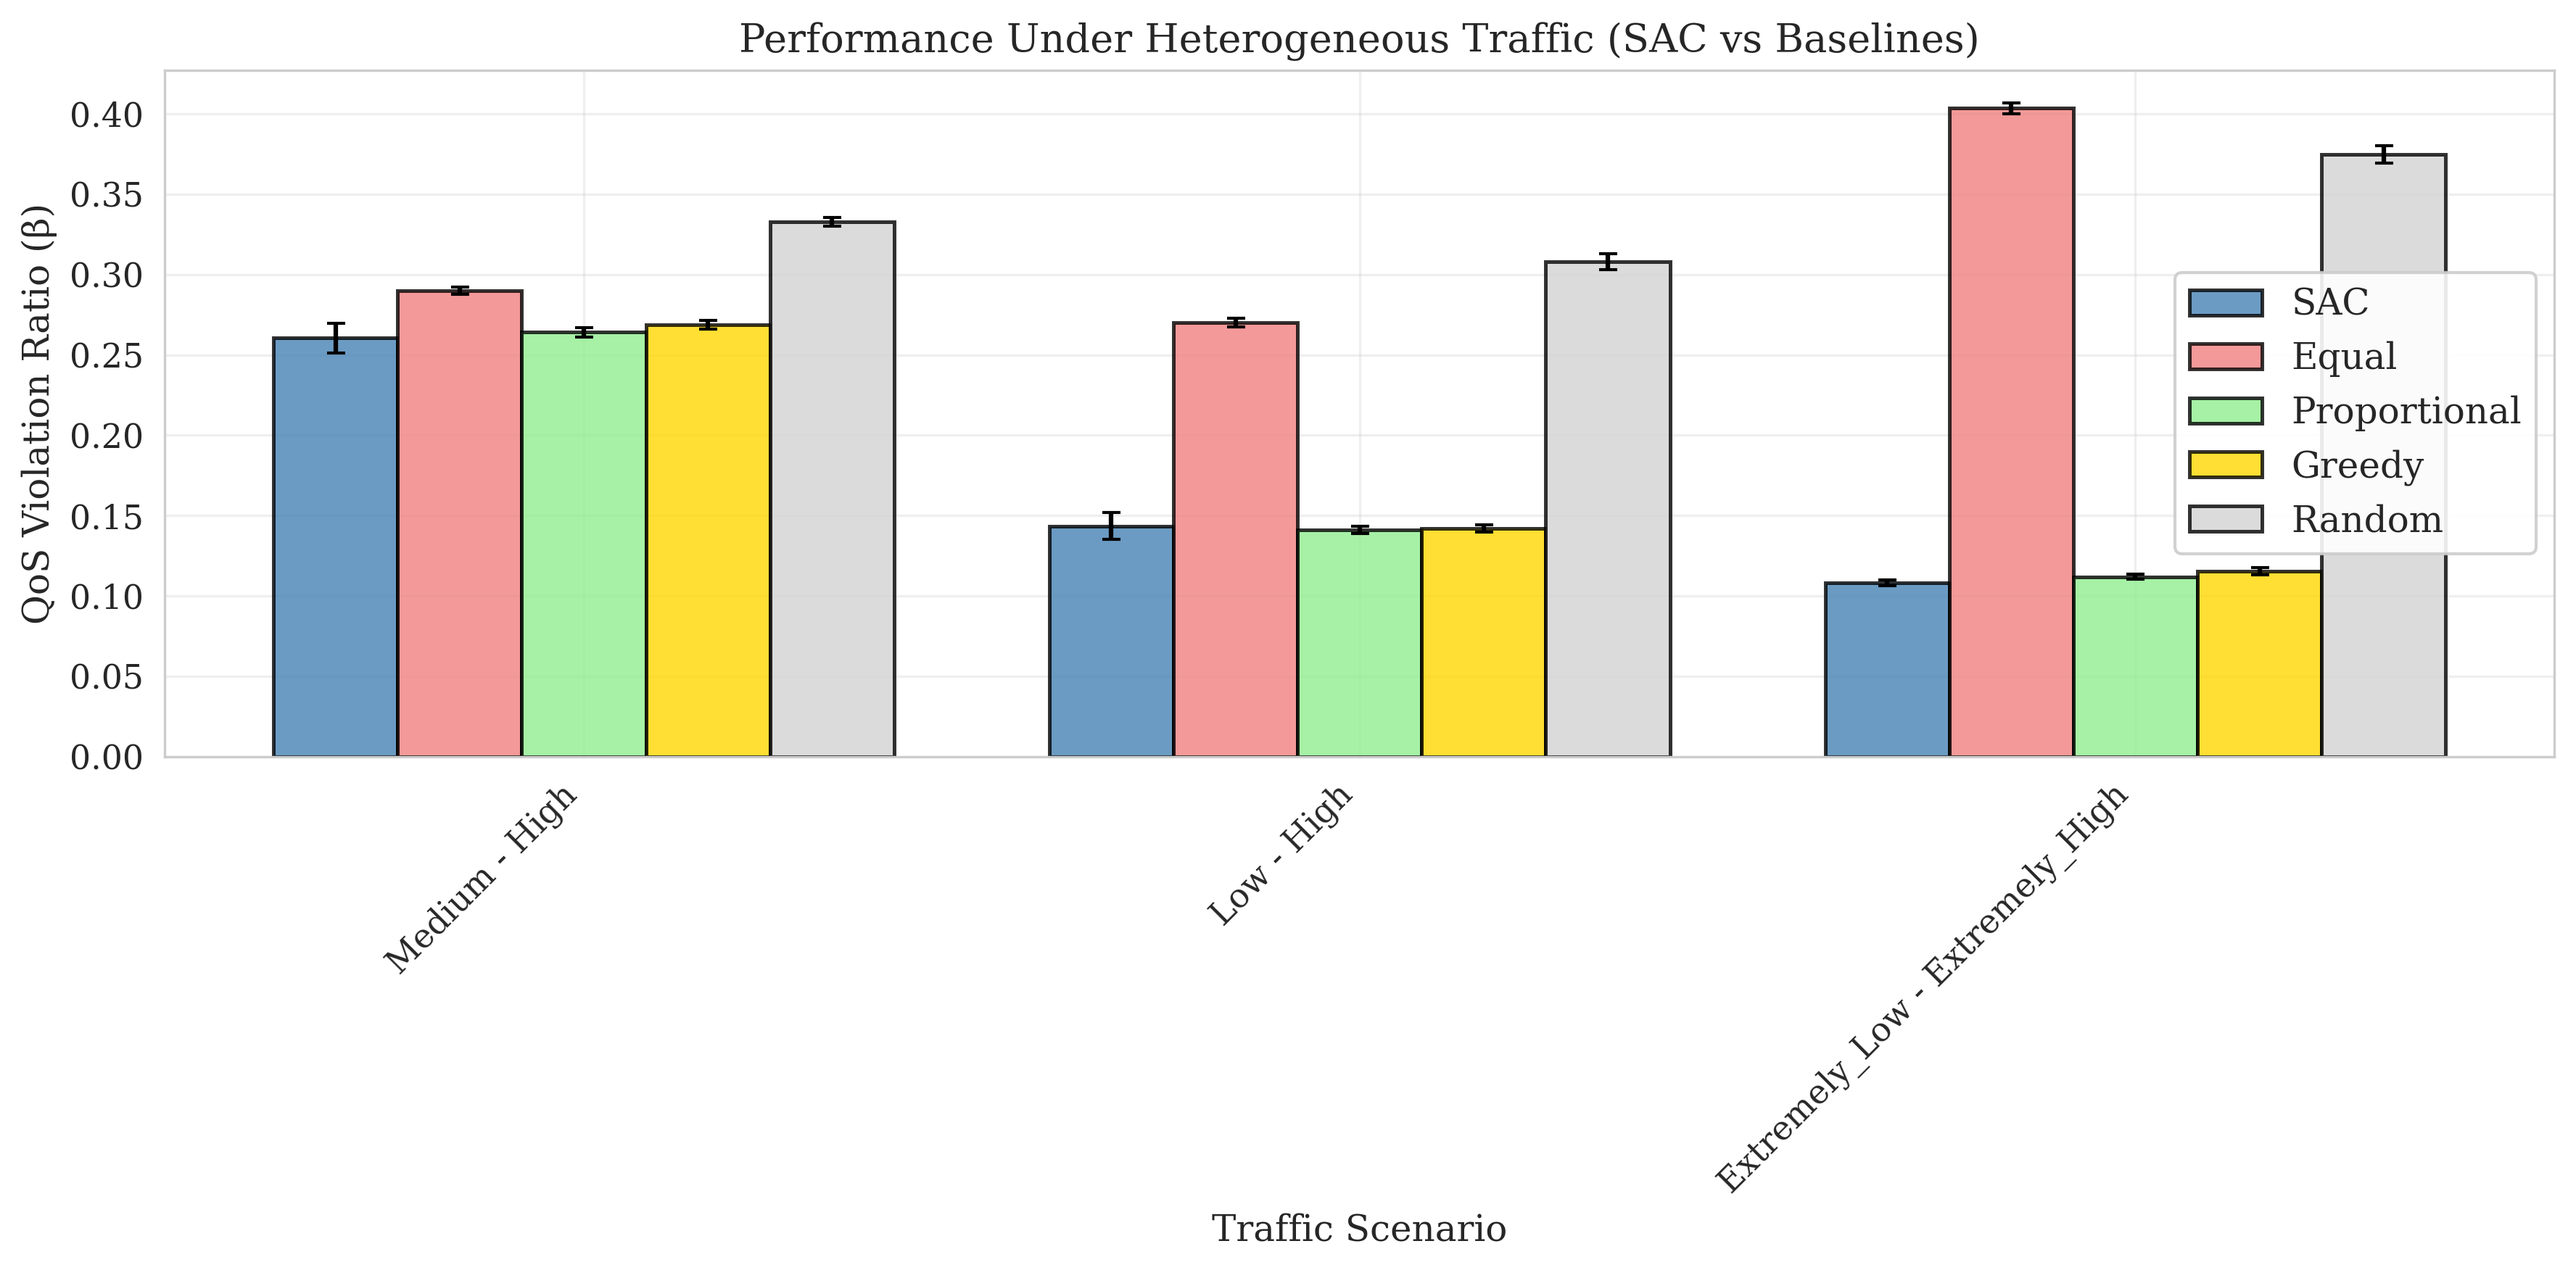
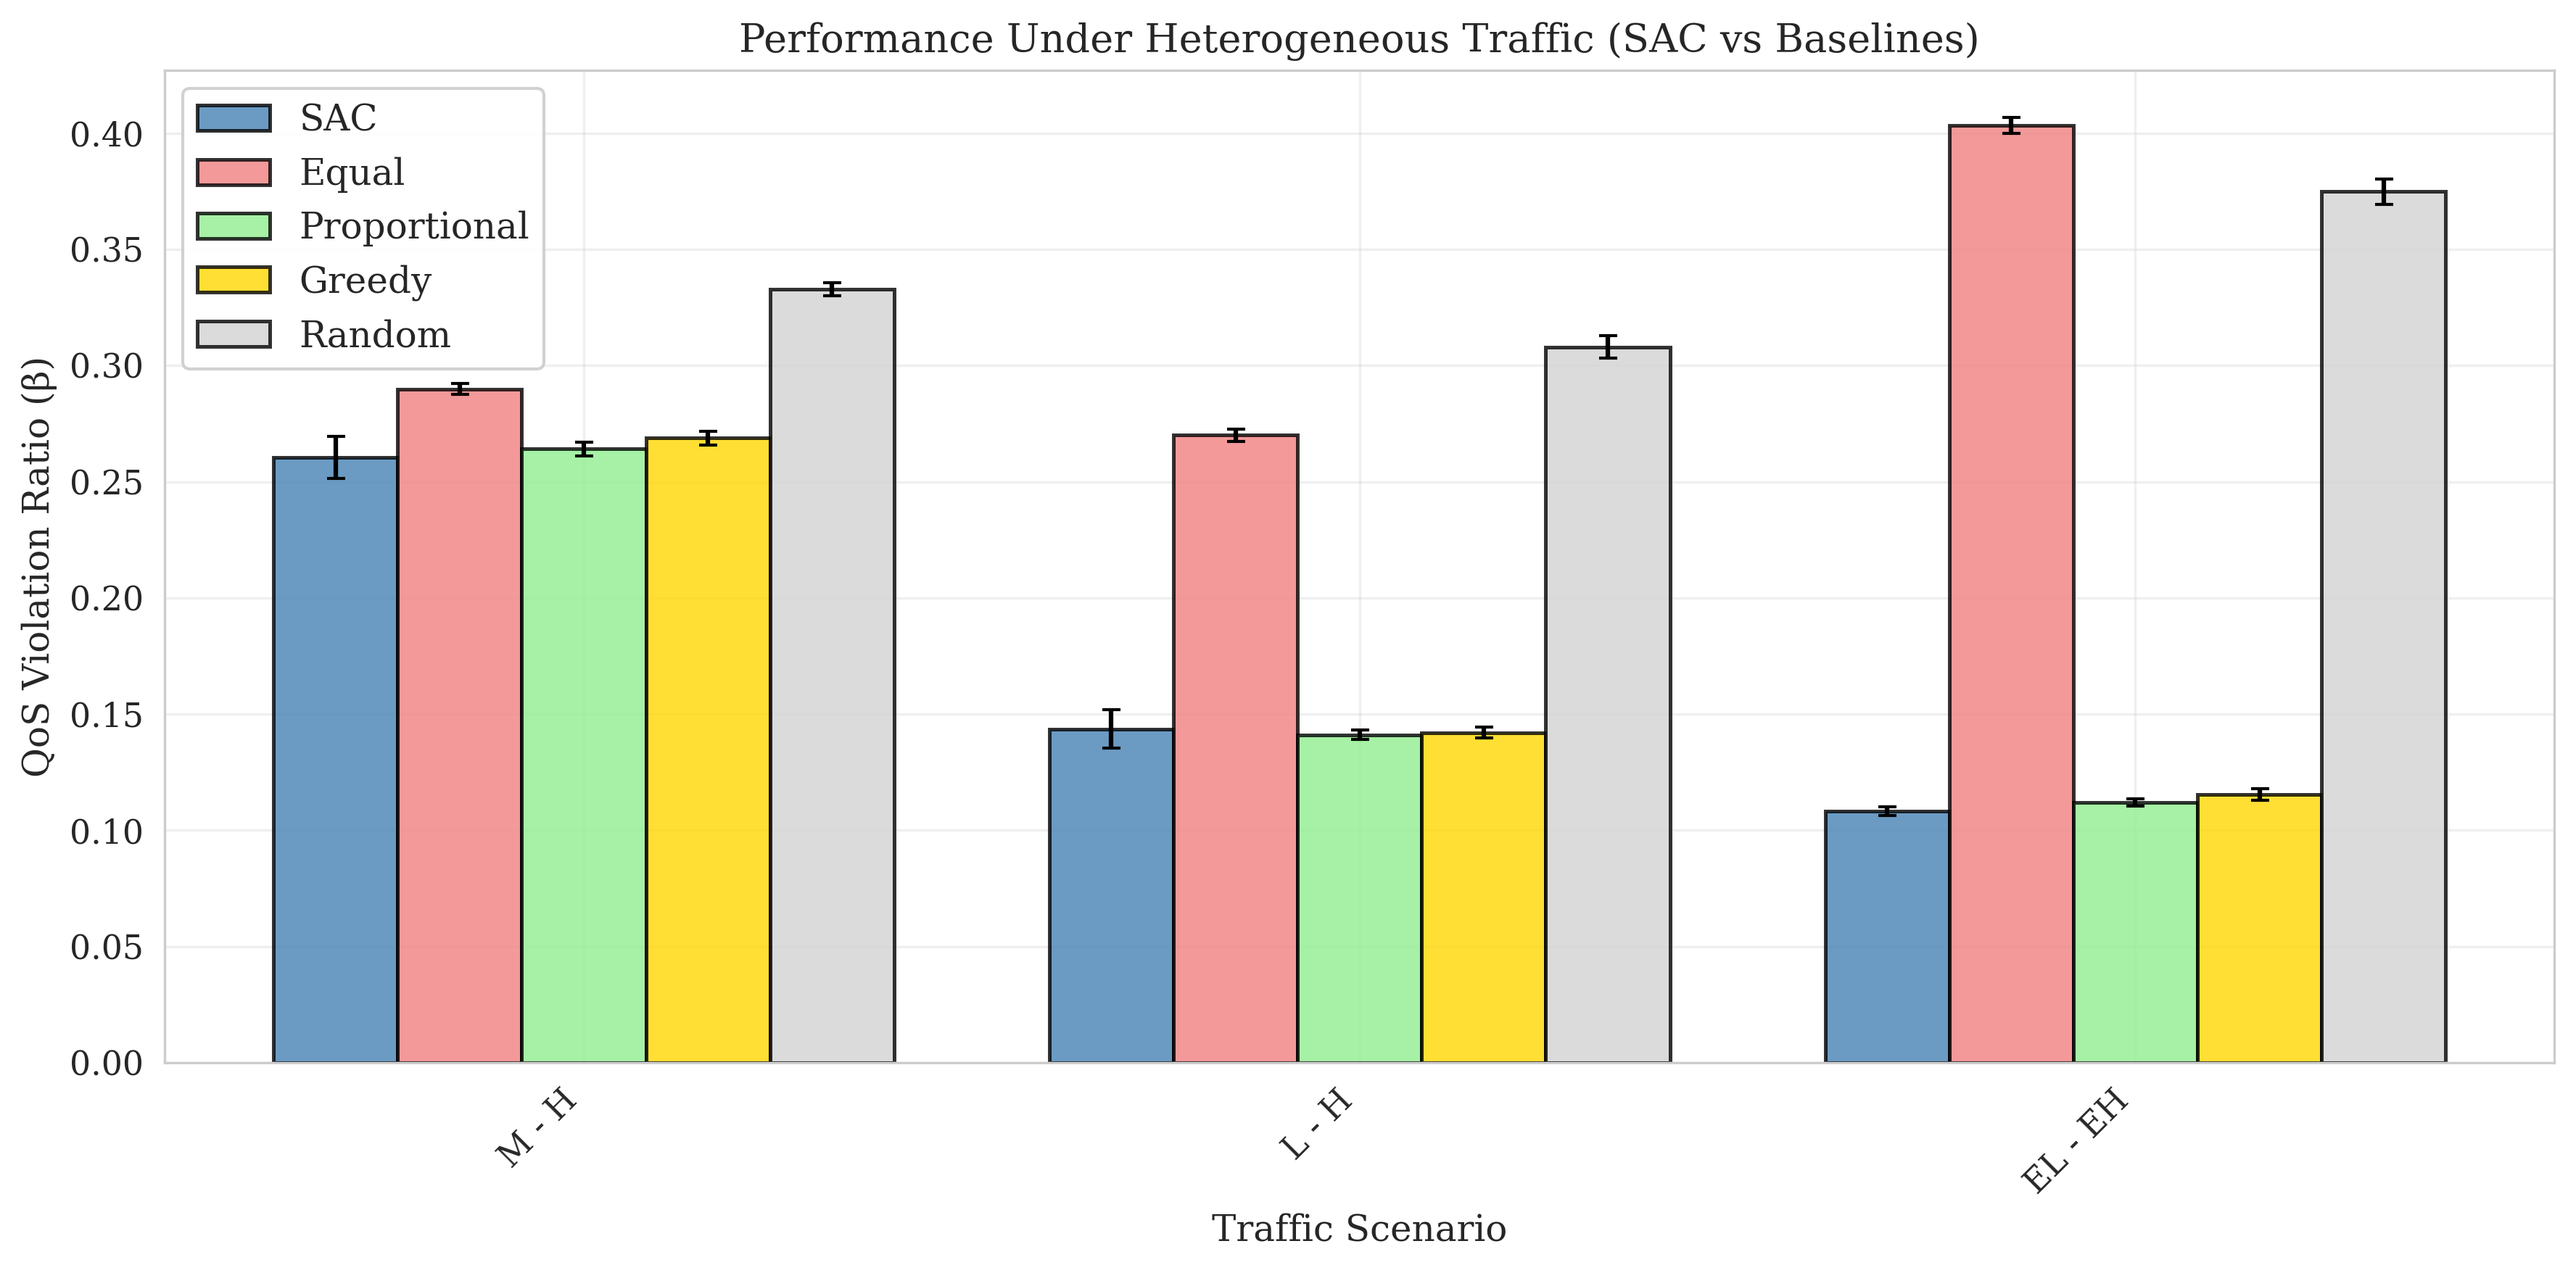
ver3.6

diff --git a/figures_static.py b/figures_static.py
@@ -17,6 +17,8 @@ from plot_style import (
     BASELINE_COLORS, BASELINE_NAMES,
     LABEL_BETA, LABEL_REWARD, LABEL_EPISODE, LABEL_RBS,
     LOAD_ORDER,
+    abbrev_profile,
+    abbrev_scenario_str,
 )
 from data_utils import collect_baseline_vectors
 
@@ -119,7 +121,7 @@ def fig1_training_convergence(experiments, output_dir):
 
     dyn_exp = dynamic_exps[0]
     pool    = dyn_exp.get('dynamic_profile_set', [])
-    pool_str = f" [{', '.join(pool)}]" if pool else ''
+    pool_str = f" [{abbrev_profile(pool)}]" if pool else ''
 
     if 'episode_reward' in dyn_exp['data']:
         _single_timeseries(
@@ -149,7 +151,7 @@ def _bar_chart_metric(sorted_exps, metric, ylabel, title, color, out_path, label
         val = stats.get('last_100_mean', stats.get('mean'))
         std = stats.get('last_100_std', stats.get('std'))
         if val is not None and std is not None:
-            profiles.append(list(exp['scenario'].values())[0].replace('_', ' ').title())
+            profiles.append(abbrev_profile(list(exp['scenario'].values())[0]))
             vals.append(val)
             stds.append(std)
 
@@ -221,7 +223,7 @@ def fig2_static_homogeneous(exps_by_cat, baseline_data, output_dir):
         if val is None or std is None:
             continue
 
-        profiles.append(list(exp['scenario'].values())[0].replace('_', ' ').title())
+        profiles.append(abbrev_profile(list(exp['scenario'].values())[0]))
         sac_betas.append(val)
         sac_stds.append(std)
 
@@ -301,7 +303,7 @@ def fig3_heterogeneous(exps_by_cat, baseline_data, output_dir):
         if val is None or std is None:
             continue
 
-        scenarios.append(exp['scenario_str'])
+        scenarios.append(abbrev_scenario_str(exp['scenario_str']))
         sac_betas.append(val)
         sac_stds.append(std)
 
@@ -406,7 +408,7 @@ def fig4_allocation_patterns(experiments, output_dir):
         for idx, key in enumerate(['ep80_action_slice0', 'ep80_action_slice1']):
             slice_name = labels[idx] if idx < len(labels) else f'Slice {idx}'
             all_data.append(exp['data'][key]['values'])
-            all_labels.append(f'{sname}\n{slice_name}')
+            all_labels.append(f'{abbrev_scenario_str(sname)}\n{slice_name}')
             all_colors.append(pair[idx])
 
     fig, ax = plt.subplots(figsize=(max(10, len(all_data) * 1.5), 6))

diff --git a/tables.py b/tables.py
@@ -12,7 +12,7 @@ tables.py — LaTeX table generation.
 import os
 import numpy as np
 
-from plot_style import BASELINE_NAMES, LOAD_ORDER
+from plot_style import BASELINE_NAMES, LOAD_ORDER, abbrev_profile, abbrev_scenario_str
 from data_utils import compute_per_slice_stats, collect_baseline_vectors
 
 
@@ -77,7 +77,7 @@ def generate_latex_table_static_homogeneous(exps_by_cat, baseline_data, output_d
 
     rows = []
     for exp in exps:
-        profile = list(exp['scenario'].values())[0].replace('_', ' ').title()
+        profile = abbrev_profile(list(exp['scenario'].values())[0])
         sac_str = _beta_str(exp['statistics'].get('beta'))
         bl_betas, bl_stds = collect_baseline_vectors(exp, baseline_data, BASELINE_NAMES)
 
@@ -139,7 +139,7 @@ def generate_latex_table_heterogeneous(exps_by_cat, baseline_data, output_dir):
             bl_strs[name] = rf"{bv:.4f} $\pm$ {sv:.4f}" if (bv is not None and sv is not None) else 'N/A'
 
         rows.append({
-            'scenario': exp['scenario_str'],
+            'scenario': abbrev_scenario_str(exp['scenario_str']),
             'sac': sac_str,
             **{name: bl_strs[name] for name in BASELINE_NAMES},
         })
@@ -186,7 +186,7 @@ def generate_summary_table(experiments, output_dir):
         reward_str = rf"{rm:.2f} $\pm$ {rs:.2f}" if (rm and rs) else 'N/A'
         rf_label   = exp.get('reward_formulation', 'N/A')
 
-        rows.append((exp['scenario_str'], beta_str, reward_str, rf_label))
+        rows.append((abbrev_scenario_str(exp['scenario_str']), beta_str, reward_str, rf_label))
 
     latex = (
         r"\begin{table*}[!t]" + "\n"
@@ -468,7 +468,7 @@ def generate_dynamic_ablation_table(experiments, output_dir, ablation_map):
         sample_exp  = next(iter(range_groups[sz].values()))
         pool        = sample_exp.get('dynamic_profile_set', [])
         period      = sample_exp.get('dynamic_change_period')
-        pool_str    = ', '.join(p.title() for p in pool)
+        pool_str    = abbrev_profile(pool)
         period_str  = f', T={period}' if period else ''
         range_label = f'[{pool_str}]{period_str}'
         n_rtypes    = len(all_rtypes)

diff --git a/paper_figures/summary_table.tex b/paper_figures/summary_table.tex
@@ -9,17 +9,17 @@
 Dynamic [Low, Medium, High], T=200 DTIs & 0.190 $\pm$ 0.032 & -380.78 $\pm$ 64.40 & weighted \\
 Dynamic [Extremely_Low, Low, Medium, High, Extremely_High], T=200 DTIs & 0.197 $\pm$ 0.036 & -393.25 $\pm$ 71.38 & weighted \\
 Dynamic [Extremely_Low, Low, Medium, High, Extremely_High], T=200 DTIs & 0.183 $\pm$ 0.036 & -366.20 $\pm$ 71.07 & global \\
-Extremely_Low - Extremely_High & 0.158 $\pm$ 0.010 & -316.40 $\pm$ 20.02 & weighted \\
-Medium - High & 0.279 $\pm$ 0.006 & -557.70 $\pm$ 12.72 & weighted \\
-Extremely_Low - Extremely_Low & 0.010 $\pm$ 0.001 & -19.70 $\pm$ 2.36 & global \\
-Low - Low & 0.025 $\pm$ 0.003 & -49.65 $\pm$ 5.21 & global \\
-Medium - Medium & 0.196 $\pm$ 0.006 & -391.47 $\pm$ 11.63 & global \\
-High - High & 0.358 $\pm$ 0.012 & -715.07 $\pm$ 23.97 & global \\
-Extremely_High - Extremely_High & 0.403 $\pm$ 0.014 & -805.84 $\pm$ 27.69 & global \\
-Low - High & 0.132 $\pm$ 0.005 & -264.94 $\pm$ 10.12 & weighted \\
-Medium - High & 0.260 $\pm$ 0.009 & -520.86 $\pm$ 18.29 & global \\
-Low - High & 0.144 $\pm$ 0.008 & -287.23 $\pm$ 16.69 & global \\
-Extremely_Low - Extremely_High & 0.108 $\pm$ 0.002 & -216.41 $\pm$ 3.59 & global \\
+EL - EH & 0.158 $\pm$ 0.010 & -316.40 $\pm$ 20.02 & weighted \\
+M - H & 0.279 $\pm$ 0.006 & -557.70 $\pm$ 12.72 & weighted \\
+EL - EL & 0.010 $\pm$ 0.001 & -19.70 $\pm$ 2.36 & global \\
+L - L & 0.025 $\pm$ 0.003 & -49.65 $\pm$ 5.21 & global \\
+M - M & 0.196 $\pm$ 0.006 & -391.47 $\pm$ 11.63 & global \\
+H - H & 0.358 $\pm$ 0.012 & -715.07 $\pm$ 23.97 & global \\
+EH - EH & 0.403 $\pm$ 0.014 & -805.84 $\pm$ 27.69 & global \\
+L - H & 0.132 $\pm$ 0.005 & -264.94 $\pm$ 10.12 & weighted \\
+M - H & 0.260 $\pm$ 0.009 & -520.86 $\pm$ 18.29 & global \\
+L - H & 0.144 $\pm$ 0.008 & -287.23 $\pm$ 16.69 & global \\
+EL - EH & 0.108 $\pm$ 0.002 & -216.41 $\pm$ 3.59 & global \\
 Dynamic [Low, Medium, High], T=200 DTIs & 0.182 $\pm$ 0.033 & -363.39 $\pm$ 65.89 & global \\
 \bottomrule
 \end{tabular}

diff --git a/figures_dynamic.py b/figures_dynamic.py
@@ -25,6 +25,7 @@ from matplotlib.patches import Patch
 from plot_style import (
     FIGURE_DPI, FIGURE_FORMAT,
     COLOR_BETA, LABEL_BETA, LABEL_DTI, LABEL_RBS, LABEL_EPISODE,
+    abbrev_profile,
 )
 
 _PROFILE_NAMES = {
@@ -72,7 +73,7 @@ def fig5_dynamic_scenarios(exps_by_cat, output_dir):
         data   = exp['data']
         pool   = exp.get('dynamic_profile_set', [])
         period = exp.get('dynamic_change_period')
-        pool_str   = f"[{', '.join(pool)}]" if pool else ''
+        pool_str   = f"[{abbrev_profile(pool)}]" if pool else ''
         period_str = f", T={period} DTIs" if period else ''
         print(f"\n  Processing: {exp['run_name']} — {exp['scenario_str']}{pool_str}{period_str}")
 
@@ -557,7 +558,7 @@ def fig_dynamic_ablation_comparison(experiments, output_dir, ablation_map):
             color     = rtype_colors[rtype]
             slabels   = exp.get('slice_labels', [])
             pool      = exp.get('dynamic_profile_set', [])
-            pool_str  = f"[{', '.join(p.title() for p in pool)}]" if pool else exp['scenario_str']
+            pool_str  = f"[{abbrev_profile(pool)}]" if pool else exp['scenario_str']
 
             if 'dti_beta' in data:
                 steps = np.array(data['dti_beta']['steps'])
@@ -609,7 +610,7 @@ def fig_dynamic_ablation_bar_chart(experiments, output_dir, ablation_map):
     for range_dict in [r3, r5]:
         sample = next(iter(range_dict.values()))
         pool   = sample.get('dynamic_profile_set', [])
-        pool_str = f"[{', '.join(p.title() for p in pool)}]" if pool else sample['scenario_str']
+        pool_str = f"[{abbrev_profile(pool)}]" if pool else sample['scenario_str']
         for rt in all_rtypes:
             exp = range_dict.get(rt)
             bar_labels.append(f'{pool_str}\n{rt.capitalize()}')

diff --git a/plot_style.py b/plot_style.py
@@ -55,3 +55,46 @@ LOAD_ORDER = {
 }
 
 BASELINE_NAMES = ['equal', 'proportional', 'greedy', 'random']
+
+# Traffic profile abbreviations used in all figure/table labels
+PROFILE_ABBREV = {
+    'extremely_low':  'EL',
+    'low':            'L',
+    'medium':         'M',
+    'high':           'H',
+    'extremely_high': 'EH',
+    'dynamic':        'Dyn',
+    'uniform':        'U',
+    'external':       'Ext',
+}
+
+
+def abbrev_profile(profile):
+    """
+    Return the display abbreviation for a traffic profile name or list of names.
+
+    Accepts:
+      - a raw profile string:  'extremely_low'  -> 'EL'
+      - a list of profiles:    ['low', 'high']  -> 'L, H'
+      - a scenario_str from step1 (e.g. 'Extremely_Low - High') ->  'EL - H'
+
+    Unknown profiles are returned unchanged.
+    """
+    if isinstance(profile, list):
+        return ', '.join(abbrev_profile(p) for p in profile)
+    key = profile.lower().strip().replace(' ', '_')
+    return PROFILE_ABBREV.get(key, profile)
+
+
+def abbrev_scenario_str(scenario_str):
+    """
+    Abbreviate every profile token inside a scenario_str.
+
+    e.g. 'Extremely_Low - Extremely_High'  ->  'EL - EH'
+         'Low - High'                       ->  'L - H'
+         'Dynamic [Low, Medium, High]...'   ->  unchanged (dynamic label)
+    """
+    if scenario_str.startswith('Dynamic'):
+        return scenario_str  # dynamic labels are handled separately
+    parts = scenario_str.split(' - ')
+    return ' - '.join(abbrev_profile(p.strip()) for p in parts)

diff --git a/paper_figures/table_static_homogeneous.tex b/paper_figures/table_static_homogeneous.tex
@@ -6,11 +6,11 @@
 \toprule
 \textbf{Profile} & \textbf{SAC} & \textbf{Equal} & \textbf{Proportional} & \textbf{Greedy} & \textbf{Random} \\
 \midrule
-Extremely Low & 0.0098 $\pm$ 0.0012 & 0.0095 $\pm$ 0.0009 & 0.0215 $\pm$ 0.0016 & 0.1413 $\pm$ 0.0023 & 0.0989 $\pm$ 0.0033 \\
-Low & 0.0248 $\pm$ 0.0026 & 0.0241 $\pm$ 0.0012 & 0.0382 $\pm$ 0.0016 & 0.1051 $\pm$ 0.0020 & 0.1480 $\pm$ 0.0031 \\
-Medium & 0.1957 $\pm$ 0.0058 & 0.1898 $\pm$ 0.0030 & 0.1996 $\pm$ 0.0024 & 0.2034 $\pm$ 0.0026 & 0.2778 $\pm$ 0.0028 \\
-High & 0.3575 $\pm$ 0.0120 & 0.3533 $\pm$ 0.0022 & 0.3543 $\pm$ 0.0026 & 0.3537 $\pm$ 0.0027 & 0.3713 $\pm$ 0.0026 \\
-Extremely High & 0.4029 $\pm$ 0.0138 & 0.4835 $\pm$ 0.0030 & 0.4834 $\pm$ 0.0026 & 0.4762 $\pm$ 0.0031 & 0.4388 $\pm$ 0.0026 \\
+EL & 0.0098 $\pm$ 0.0012 & 0.0095 $\pm$ 0.0009 & 0.0215 $\pm$ 0.0016 & 0.1413 $\pm$ 0.0023 & 0.0989 $\pm$ 0.0033 \\
+L & 0.0248 $\pm$ 0.0026 & 0.0241 $\pm$ 0.0012 & 0.0382 $\pm$ 0.0016 & 0.1051 $\pm$ 0.0020 & 0.1480 $\pm$ 0.0031 \\
+M & 0.1957 $\pm$ 0.0058 & 0.1898 $\pm$ 0.0030 & 0.1996 $\pm$ 0.0024 & 0.2034 $\pm$ 0.0026 & 0.2778 $\pm$ 0.0028 \\
+H & 0.3575 $\pm$ 0.0120 & 0.3533 $\pm$ 0.0022 & 0.3543 $\pm$ 0.0026 & 0.3537 $\pm$ 0.0027 & 0.3713 $\pm$ 0.0026 \\
+EH & 0.4029 $\pm$ 0.0138 & 0.4835 $\pm$ 0.0030 & 0.4834 $\pm$ 0.0026 & 0.4762 $\pm$ 0.0031 & 0.4388 $\pm$ 0.0026 \\
 \bottomrule
 \end{tabular}
 \end{table}

diff --git a/paper_figures/table_heterogeneous.tex b/paper_figures/table_heterogeneous.tex
@@ -6,12 +6,12 @@
 \toprule
 \textbf{Scenario} & \textbf{SAC} & \textbf{Equal} & \textbf{Proportional} & \textbf{Greedy} & \textbf{Random} \\
 \midrule
-Extremely_Low - Extremely_High & 0.1582 $\pm$ 0.0100 & N/A & N/A & N/A & N/A \\
-Medium - High & 0.2788 $\pm$ 0.0064 & N/A & N/A & N/A & N/A \\
-Low - High & 0.1325 $\pm$ 0.0051 & N/A & N/A & N/A & N/A \\
-Medium - High & 0.2604 $\pm$ 0.0091 & 0.2899 $\pm$ 0.0024 & 0.2642 $\pm$ 0.0030 & 0.2688 $\pm$ 0.0029 & 0.3328 $\pm$ 0.0028 \\
-Low - High & 0.1436 $\pm$ 0.0083 & 0.2701 $\pm$ 0.0026 & 0.1411 $\pm$ 0.0021 & 0.1420 $\pm$ 0.0024 & 0.3080 $\pm$ 0.0048 \\
-Extremely_Low - Extremely_High & 0.1082 $\pm$ 0.0018 & 0.4034 $\pm$ 0.0034 & 0.1120 $\pm$ 0.0016 & 0.1154 $\pm$ 0.0024 & 0.3749 $\pm$ 0.0054 \\
+EL - EH & 0.1582 $\pm$ 0.0100 & N/A & N/A & N/A & N/A \\
+M - H & 0.2788 $\pm$ 0.0064 & N/A & N/A & N/A & N/A \\
+L - H & 0.1325 $\pm$ 0.0051 & N/A & N/A & N/A & N/A \\
+M - H & 0.2604 $\pm$ 0.0091 & 0.2899 $\pm$ 0.0024 & 0.2642 $\pm$ 0.0030 & 0.2688 $\pm$ 0.0029 & 0.3328 $\pm$ 0.0028 \\
+L - H & 0.1436 $\pm$ 0.0083 & 0.2701 $\pm$ 0.0026 & 0.1411 $\pm$ 0.0021 & 0.1420 $\pm$ 0.0024 & 0.3080 $\pm$ 0.0048 \\
+EL - EH & 0.1082 $\pm$ 0.0018 & 0.4034 $\pm$ 0.0034 & 0.1120 $\pm$ 0.0016 & 0.1154 $\pm$ 0.0024 & 0.3749 $\pm$ 0.0054 \\
 \bottomrule
 \end{tabular}
 \end{table}

diff --git a/paper_figures/table_dynamic_ablation.tex b/paper_figures/table_dynamic_ablation.tex
@@ -6,11 +6,11 @@
 \toprule
 \textbf{Traffic Range} & \textbf{Reward} & \textbf{Global $\beta$} & \textbf{$\beta_0$} & \textbf{$\beta_1$} & \textbf{JFI} \\
 \midrule
-\multirow{2}{*}{[Low, Medium, High], T=200}
+\multirow{2}{*}{[L, M, H], T=200}
   & weighted  & 0.1904 $\pm$ 0.0322 & 0.1378 $\pm$ 0.1450 & 0.2155 $\pm$ 0.1787 & 0.9978 \\
   & global  & 0.1817 $\pm$ 0.0329 & 0.1366 $\pm$ 0.1494 & 0.2281 $\pm$ 0.1792 & 0.9969 \\
 \midrule
-\multirow{2}{*}{[Extremely_Low, Low, Medium, High, Extremely_High], T=200}
+\multirow{2}{*}{[EL, L, M, H, EH], T=200}
   & weighted  & 0.1966 $\pm$ 0.0357 & 0.1418 $\pm$ 0.1867 & 0.2166 $\pm$ 0.2171 & 0.9979 \\
   & global  & 0.1831 $\pm$ 0.0355 & 0.1691 $\pm$ 0.1984 & 0.2095 $\pm$ 0.2524 & 0.9994 \\
 \bottomrule
